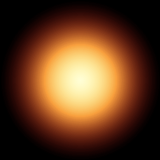
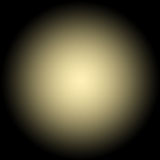
lighting working for night

diff --git a/src/game/lighting/LightingSystem.java b/src/game/lighting/LightingSystem.java
@@ -245,7 +245,7 @@ public class LightingSystem {
 			
 			BufferedImage img = getBufferedImageMap(light.tex, poly, new Point(light_x-light_width, light_y-light_width));
 			
-			g.drawImage(img, light_x-light_width, light_y-light_width, null);
+			g.drawImage(img, (int)-cam.getX(), (int)-cam.getY(), null);
 			
 			//g.drawPolygon(poly);
 		}
@@ -256,46 +256,82 @@ public class LightingSystem {
 		BufferedImage start = new BufferedImage(Game.WIDTH, Game.HEIGHT, BufferedImage.TYPE_INT_ARGB);
 		//fill screen with black
 		
-		BufferedImage img2 = new BufferedImage(img.getWidth(), img.getHeight(), BufferedImage.TYPE_INT_ARGB);
-		
-		for (int y = 0; y < img2.getHeight(); y++) {
-		    for (int x = 0; x < img2.getWidth(); x++) {
-		    	int clr;
-		    	/*if(x > origin.x && x < origin.x + 160 && y > origin.y && y < origin.y+160) {
-		    		int xx = (int) (x - origin.x);
-		    		int yy = (int) (y - origin.y);
-		    		System.out.println(xx + " "+yy);
-		    		clr = img.getRGB(xx, yy);
-		    	}else {
-		    		int r = 0;
-			    	int g = 0;
-			    	int b = 0;
-			    	int a3 = 255;
-			    	clr = (a3 << 24) | (r << 16) | (g << 8) | b;
-		    	}*/
-		    	clr = img.getRGB(x, y);
+		for (int y = 0; y < start.getHeight(); y++) {
+		    for (int x = 0; x < start.getWidth(); x++) {
+		    	int light_color = 0;
 		    	
-		        int  red   = (clr & 0x00ff0000) >> 16;
-		        int  green = (clr & 0x0000ff00) >> 8;
-		        int  blue  =  clr & 0x000000ff;
+		    	int light_screen_x =  origin.x - (int)-cam.getX();
+		    	int light_screen_y = origin.y - (int)-cam.getY();
+	    		if(x-light_screen_x >= 0 && x-light_screen_x < img.getWidth() && y-light_screen_y >= 0 && y-light_screen_y < img.getHeight()) {
+	    			light_color = img.getRGB(x-light_screen_x, y-light_screen_y); //min iets om vanaf 0 te beginnen
+	    			//System.out.println(y-light_screen_y);
+	    		}
+		    	
+		    	int clr = (225 << 24) | (0 << 16) | (0 << 8) | 0;
 		        
 		        int a = ((byte)(225) << 24) | 0x00000000;
 		        int a2 = ((byte)(225) << 24) | 0x00ffffff;
 		        
 		        int new_color = clr & a;
 		        int new_color2 = clr & a2;
-		        if(!poly.contains(new Point((int)(x+origin.x), (int)(y+origin.y)))) {
-		        	img2.setRGB(x, y, new_color);
+		        if(x-light_screen_x >= 0 && x-light_screen_x < img.getWidth() && y-light_screen_y >= 0 && y-light_screen_y < img.getHeight()) {
+		        	int color = light_color & a2;
+		        	if(!poly.contains(new Point((int)(x-light_screen_x+origin.x), (int)(y-light_screen_y+origin.y)))) {
+		        		start.setRGB(x, y, new_color2);
+		        	}else {
+		        		start.setRGB(x, y, color);
+		        	}
 		        }else {
-		        	img2.setRGB(x, y, new_color2);
+		        	start.setRGB(x, y, new_color2);
 		        }
 		        //start.setRGB(x, y, new_color2);
 		    }
 		}
 		
-		img2 = blurImage(img2);
+		start = blurImage(start);
 		
-		return img2;
+		return start;
+		
+//		BufferedImage img2 = new BufferedImage(img.getWidth(), img.getHeight(), BufferedImage.TYPE_INT_ARGB);
+//		
+//		for (int y = 0; y < img2.getHeight(); y++) {
+//		    for (int x = 0; x < img2.getWidth(); x++) {
+//		    	int clr;
+//		    	/*if(x > origin.x && x < origin.x + 160 && y > origin.y && y < origin.y+160) {
+//		    		int xx = (int) (x - origin.x);
+//		    		int yy = (int) (y - origin.y);
+//		    		System.out.println(xx + " "+yy);
+//		    		clr = img.getRGB(xx, yy);
+//		    	}else {
+//		    		int r = 0;
+//			    	int g = 0;
+//			    	int b = 0;
+//			    	int a3 = 255;
+//			    	clr = (a3 << 24) | (r << 16) | (g << 8) | b;
+//		    	}*/
+//		    	clr = img.getRGB(x, y);
+//		    	
+//		        int  red   = (clr & 0x00ff0000) >> 16;
+//		        int  green = (clr & 0x0000ff00) >> 8;
+//		        int  blue  =  clr & 0x000000ff;
+//		        
+//		        int a = ((byte)(225) << 24) | 0x00000000;
+//		        int a2 = ((byte)(225) << 24) | 0x00ffffff;
+//		        
+//		        int new_color = clr & a;
+//		        int new_color2 = clr & a2;
+//		        if(!poly.contains(new Point((int)(x+origin.x), (int)(y+origin.y)))) {
+//		        	img2.setRGB(x, y, new_color);
+//		        }else {
+//		        	img2.setRGB(x, y, new_color2);
+//		        }
+//		        //start.setRGB(x, y, new_color2);
+//		    }
+//		}
+//		
+//		img2 = blurImage(img2);
+//		
+//		return img2;
 	}
 	
 	private BufferedImage blurImage(BufferedImage img) {
